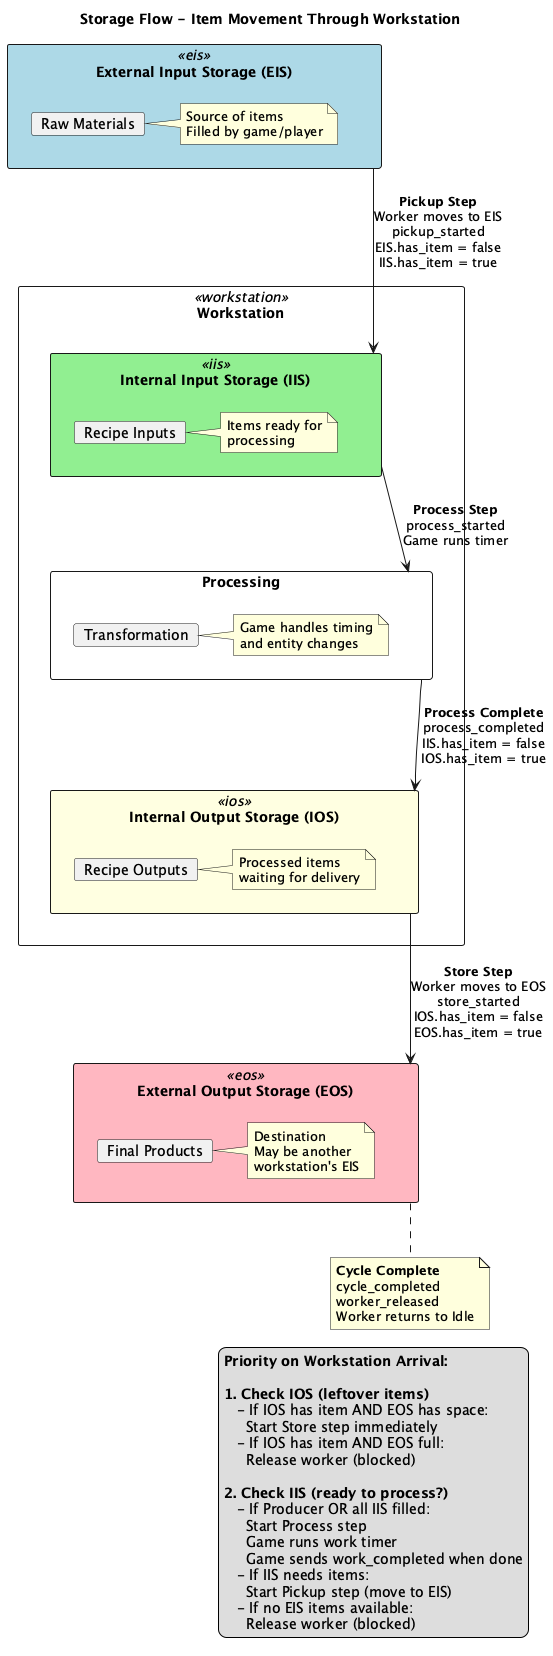
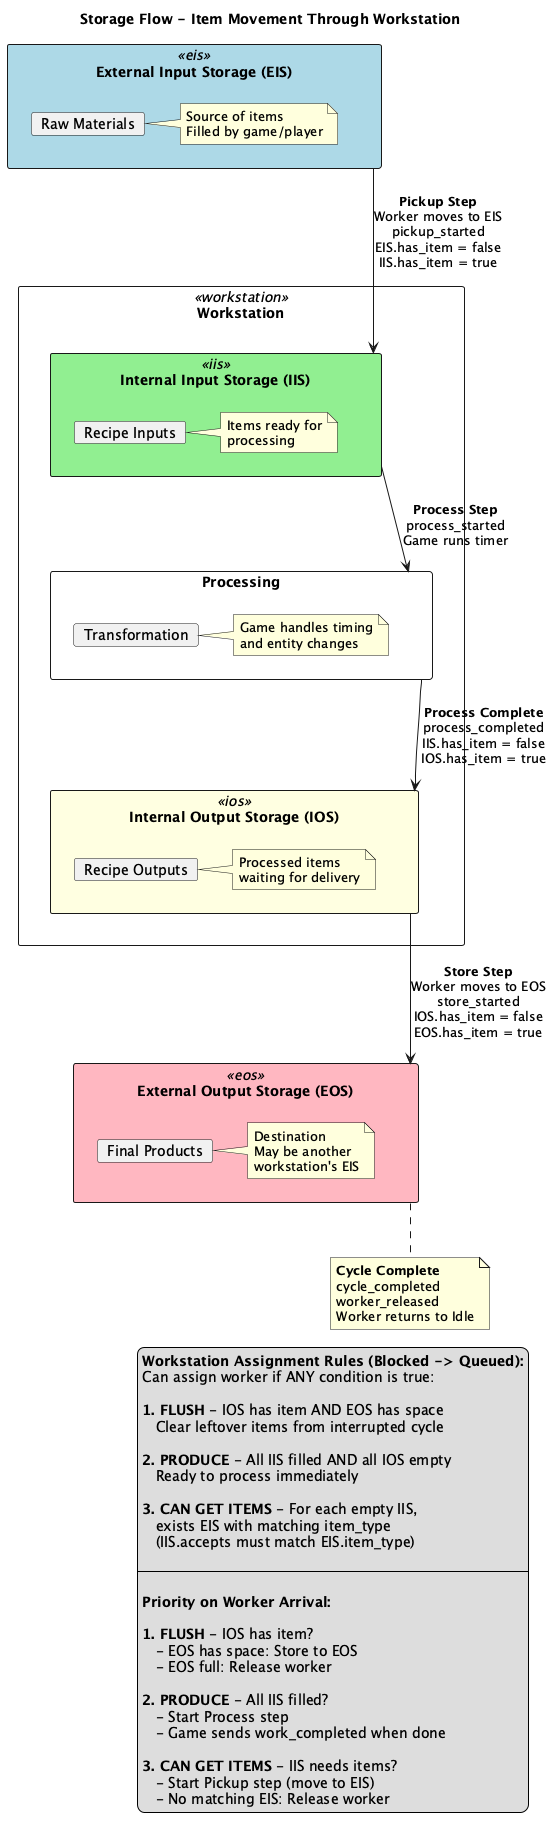
docs: add workstation assignment rules to RFC
Document three conditions for when a workstation can receive a worker:
1. FLUSH - IOS has item AND EOS has space (clear leftovers)
2. PRODUCE - All IIS filled AND all IOS empty (ready to process)
3. CAN GET ITEMS - For each empty IIS, exists EIS with matching item_type

Key constraints:
- IIS.accepts must never be null (throw error if null)
- Conditions are evaluated as OR (any true = operable)

Add open questions for discussion:
- Multiple IIS needing same item type
- Partial matching behavior
- EIS selection strategy
- Partially filled IIS handling

Add new UML diagram: workstation-assignment.puml

🤖 Generated with [Claude Code](https://claude.com/claude-code)

diff --git a/rfcs/035-worker-movement-states.md b/rfcs/035-worker-movement-states.md
@@ -309,6 +309,129 @@ If we choose a breaking change (Option B or C):
 2. Provide migration guide
 3. Consider compatibility mode for existing games
 
+---
+
+## Workstation Assignment Rules
+
+A workstation can receive a worker (transition from `Blocked` → `Queued`) when **any** of the following conditions is true:
+
+### Condition 1: FLUSH (Clear Leftover Items)
+
+```
+At least one IOS has item AND at least one EOS is empty
+```
+
+**Purpose**: Clear leftover items from an interrupted cycle before starting a new one.
+
+**Example**:
+```
+IOS: [Bread, null]  → has item
+EOS: [null, null]   → has space
+Result: CAN ASSIGN (worker will store Bread to EOS)
+```
+
+### Condition 2: PRODUCE (Ready to Process)
+
+```
+All IIS have items AND all IOS are empty
+```
+
+**Purpose**: All inputs are ready, no leftover outputs blocking - can start processing immediately.
+
+**Example**:
+```
+IIS: [Flour, Water]  → all filled
+IOS: [null]          → all empty
+Result: CAN ASSIGN (worker will start process_started)
+```
+
+### Condition 3: CAN GET ITEMS (Fill from Pantry/Storage)
+
+```
+For each empty IIS, there exists an EIS with matching item type
+```
+
+**Purpose**: The required ingredients are available in external storage to fill the workstation inputs.
+
+**Matching Rule**: `IIS.accepts` must match `EIS.item_type`
+
+**Example**:
+```
+IIS: [accepts: Potato (empty), accepts: Water (empty)]
+EIS: [item: Potato, item: Water, item: Flour]
+Result: CAN ASSIGN (worker will pickup Potato and Water from EIS)
+```
+
+**Counter-example**:
+```
+IIS: [accepts: Potato (empty), accepts: Butter (empty)]
+EIS: [item: Potato, item: Water]
+Result: CANNOT ASSIGN (no EIS has Butter)
+```
+
+### Important Constraints
+
+1. **IIS.accepts must never be null**: Each IIS must specify what item type it accepts. If `IIS.accepts == null`, the engine should throw an error. Think of IIS as recipe slots - they must define what ingredient they need.
+
+2. **EIS.item_type can be null**: An empty EIS has no item_type.
+
+3. **Conditions are evaluated as OR**: If ANY condition is true, the workstation is operable.
+
+### Decision Flow Diagram
+
+```
+┌─────────────────────────────────────┐
+│   Can Workstation Receive Worker?   │
+└─────────────────────────────────────┘
+                  │
+                  ▼
+    ┌─────────────────────────────┐
+    │  Condition 1: FLUSH         │
+    │  IOS has item AND           │
+    │  EOS has space?             │
+    └─────────────────────────────┘
+           │ YES              │ NO
+           ▼                  ▼
+     ┌─────────┐    ┌─────────────────────────────┐
+     │ QUEUED  │    │  Condition 2: PRODUCE       │
+     └─────────┘    │  All IIS filled AND         │
+                    │  All IOS empty?             │
+                    └─────────────────────────────┘
+                           │ YES              │ NO
+                           ▼                  ▼
+                     ┌─────────┐    ┌─────────────────────────────┐
+                     │ QUEUED  │    │  Condition 3: CAN GET ITEMS │
+                     └─────────┘    │  For each empty IIS,        │
+                                    │  exists EIS with matching   │
+                                    │  item_type?                 │
+                                    └─────────────────────────────┘
+                                           │ YES              │ NO
+                                           ▼                  ▼
+                                     ┌─────────┐        ┌─────────┐
+                                     │ QUEUED  │        │ BLOCKED │
+                                     └─────────┘        └─────────┘
+```
+
+### Priority Order (On Worker Arrival)
+
+When a worker arrives at a workstation, the engine handles conditions in priority order:
+
+| Priority | Condition | Action |
+|----------|-----------|--------|
+| 1 | IOS has items | Store to EOS (FLUSH) |
+| 2 | All IIS filled | Start processing (PRODUCE) |
+| 3 | IIS needs items | Pickup from EIS (CAN GET ITEMS) |
+
+### Open Questions
+
+1. **Multiple IIS needing same item type**: If two IIS slots accept `Potato`, do we need two EIS with potatoes, or can one EIS supply both (worker makes two trips)?
+
+2. **Partial matching**: What if only some IIS can be filled? Should worker start partial work or wait for all ingredients?
+
+3. **EIS selection strategy**: When multiple EIS have the same item type, which one to pick from? Closest? Priority? First available?
+
+4. **IIS already partially filled**: If some IIS are filled and some empty, should Condition 3 only check the empty ones?
+
 ## References
 
 - Current workflow: `src/handlers.zig`, `src/helpers.zig`
